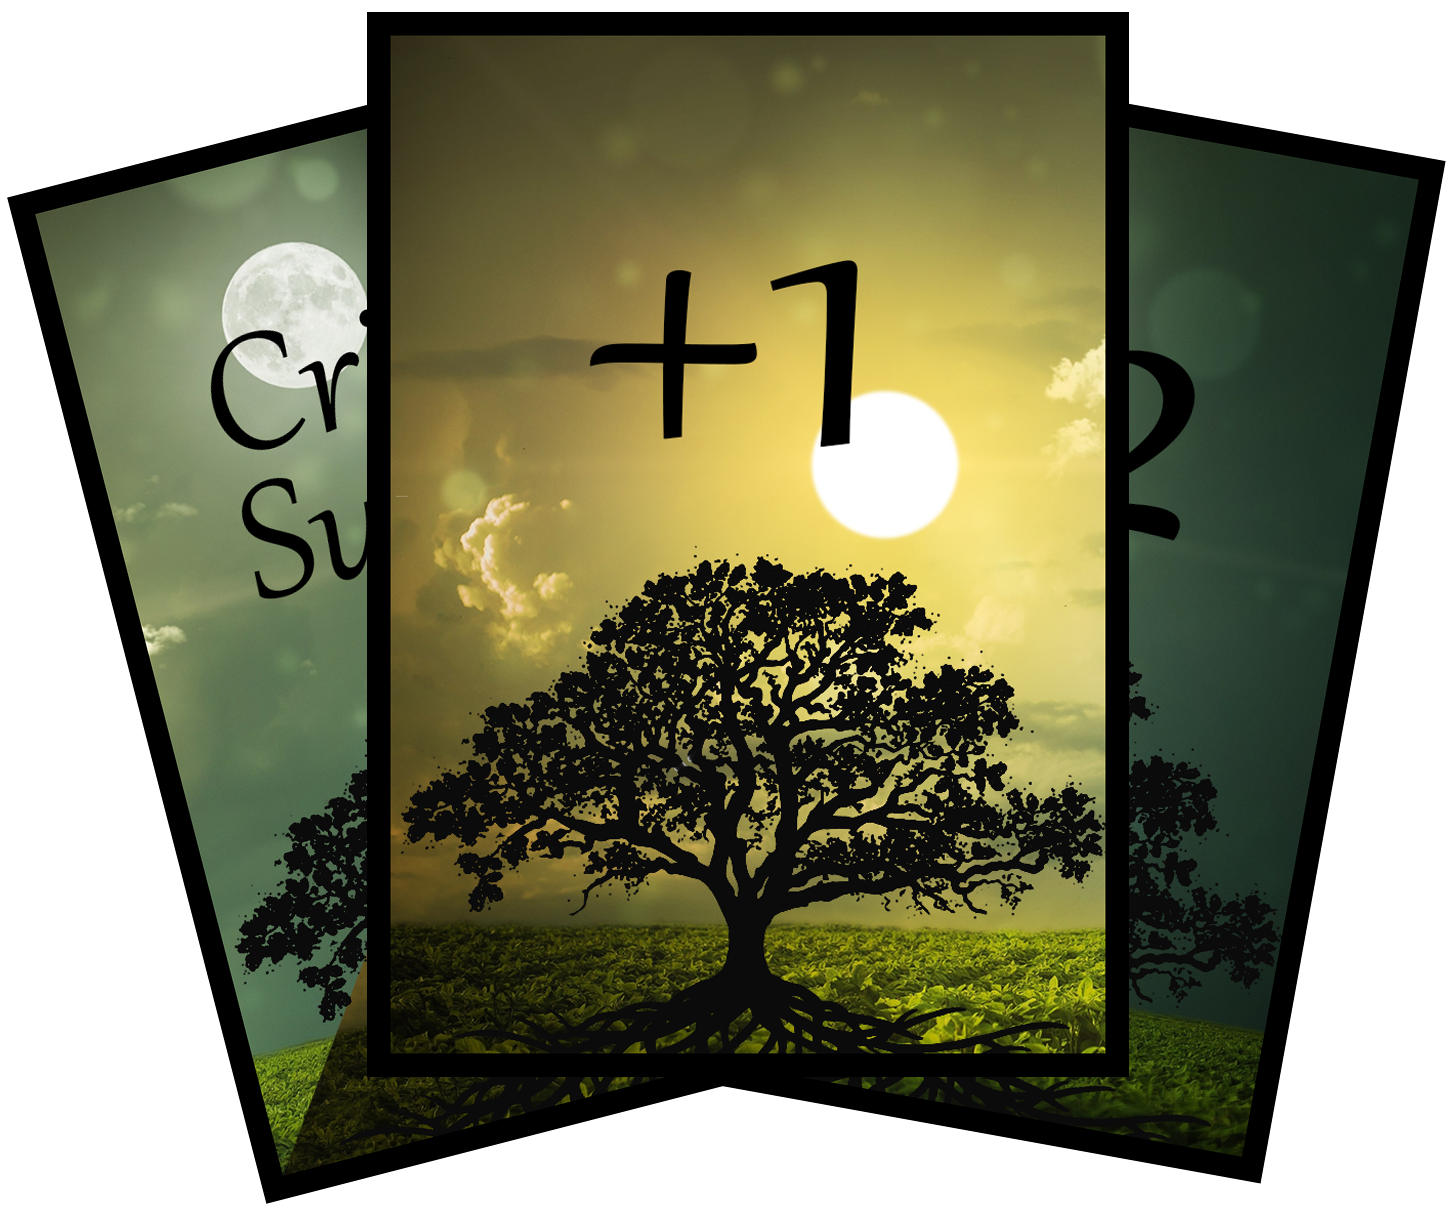
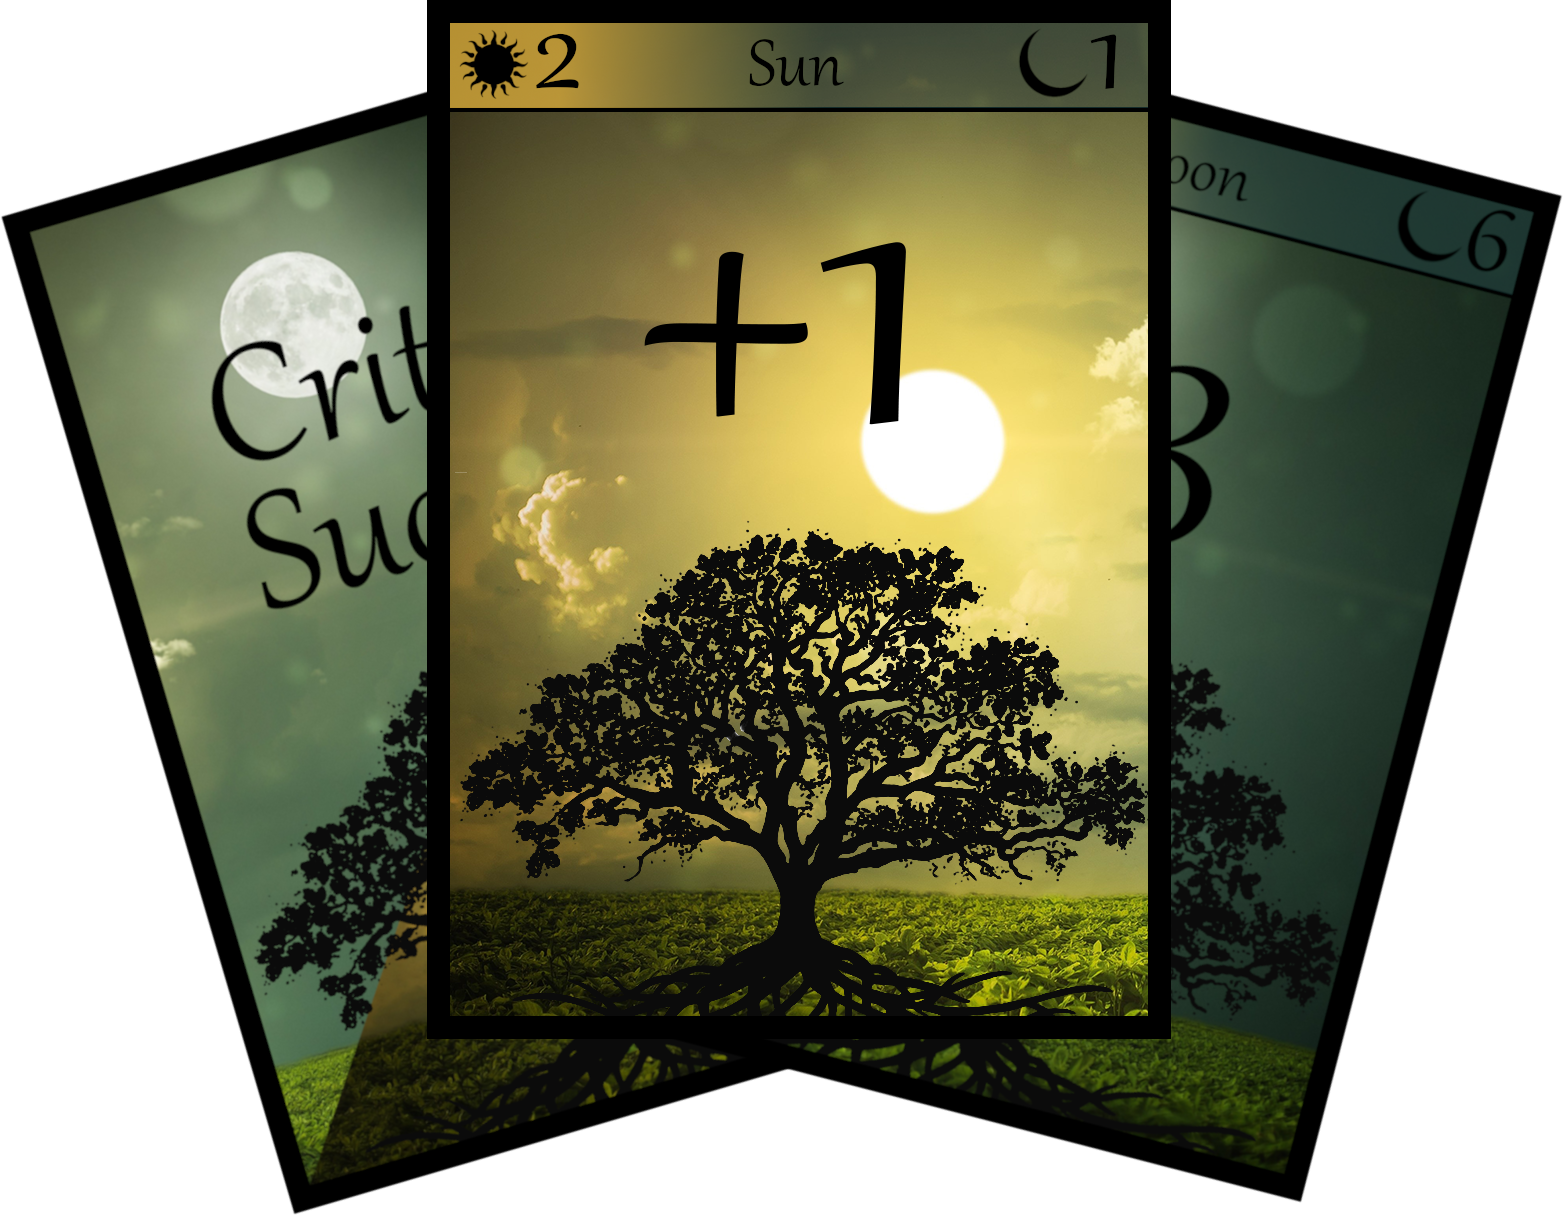
Updated Rules

Changed region(s): [[0.0, 0.0, 1.0, 1.0], [0.3716, 0.214, 0.5265, 0.3058], [0.4336, 0.3364, 0.4955, 0.3669]]

diff --git a/Game/Rules.html b/Game/Rules.html
@@ -38,15 +38,15 @@
             <div class="sub-block">
                 <div id="text-block">
                     <p>
-                        Realms Of Etharia is a turn based card roleplaying game, the game is sort of a mix between DnD
+                        Nychthemeron is a turn based card roleplaying game, the game is sort of a mix between DnD
                         and Magic the Gathering. The game does not have any dice making it less luck based while still
-                        retaining some random elements, a calculable randomness so to speak. The way this is that most
-                        random elements come in the form of a deck called Action Cards, these cards determine your
-                        overall damage value as well as your success rate, much like a dice does in DnD but since the
+                        retaining some random elements, a calculable randomness so to speak. The way this work is that most
+                        random elements come in the form of a deck called Action Cards. These cards determine your
+                        overall damage value as well as your success rate in checks, much like a dice does in DnD but since the
                         deck has a limited amount of cards you can keep track on how many good or bad cards there are
                         left in the deck.
-                        The game will feature a lot of customizability both by multi classing, adding removing Action Cards
-                        in your deck as well as the choice of races.
+                        The game will feature a lot of customizability both by multi classing, adding/removing Action Cards
+                        in your deck as well as various different races with unique abilities.
                     </p>
                 </div>
 
@@ -95,17 +95,75 @@
                                 </p>
                                 </p>
                             </div>
-                            <h4 class="block-header">Active Cards</h4>
+                            <div class="sub-section" id="sub-section-border">
+                                <div id="flex-section">
+                                    <div>
+                                        <img src="../Art/Rules/CardLayout.png" width="400" height="561">>
+                                    </div>
+                                    <div>
+                                        <h4 class="block-header">Layout</h4>
+                                        <div style="text-align: left;">
+                                            <div id="text-block" style="padding: 3px;">
+                                                <p style="margin: 2px;">
+                                                   <b>1.</b> Title of the skill/ability
+                                                </p>
+                                            </div>
+                                            <div id="text-block" style="padding: 3px;">
+                                                <p style="margin: 2px;">
+                                                    <b>2.</b> The card type, this often determines what action is required to use the skill/ability. The different types are: <strong>Standard</strong>, <strong>Movement</strong>, <strong>Reaction</strong>, <strong>Out-of-combat</strong>, <strong>Passive</strong> and <strong>Condition</strong>.
+                                                </p>
+                                            </div>
+                                            <div id="text-block" style="padding: 3px;">
+                                                <p style="margin: 2px;">
+                                                    <b>3.</b> Determines the face of the card, it is either Sun or Moon.
+                                            </div>
+                                            <div id="text-block" style="padding: 3px;">
+                                                <p style="margin: 2px;">
+                                                    <b>4.</b> The Spirit cost of the card, this cost can be 0.
+                                            </div>
+                                            <div id="text-block" style="padding: 3px;">
+                                                <p style="margin: 2px;">
+                                                    <b>5.</b> The ruletext of the card, this explain what the card does.
+                                            </div>
+                                            <div id="text-block" style="padding: 3px;">
+                                                <p style="margin: 2px;">
+                                                    <b>6.</b> The type of attack and range modifier. <br>If the modifier is + or - the total value is the base range of the respective weapon equipped +/- the modifier value.<br>
+                                                    If the modifier is neither + or -, the range is set at the number indicated regardless of the base range of the weapon.
+                                            </div>
+                                            <div id="text-block" style="padding: 3px;">
+                                                <p style="margin: 2px;">
+                                                    <b>7.</b> Requirements, this condition must be forfilled to use the card.
+                                            </div>
+                                            <div id="text-block" style="padding: 3px;">
+                                                <p style="margin: 2px;">
+                                                    <b>8.</b> The name of the class the card belongs to.
+                                            </div>
+                                            <div id="text-block" style="padding: 3px;">
+                                                <p style="margin: 2px;">
+                                                    <b>9.</b> The name of the sub-class the card belongs to and the tier of the card.
+                                            </div>
+                                        </div>
+                                        
+        
+                                    </div>
+
+                                </div>
+
+                                
+                                <h4 class="block-header">Active Cards</h4>
                             <div id="text-block">
                                 <p>
                                     Active cards are the side of the card that is currently face up.
                                     Casting a spell does not make the other side of the card 'Active' until after the
-                                    effect of the casted spell has concluded and the card has been flipped over
+                                    inital effect of the casted spell has been concluded and the card has been flipped over
                                     to the other
                                     side (This does not include additional after-effects such as conditions, lasting
                                     buffs and debuffs).
                                 </p>
                             </div>
+                            </div>
+                            
+                            
                             <h4 class="block-header">Initative</h4>
                             <div id="text-block">
                                 <p id="text-block">
@@ -232,8 +290,16 @@
                                 <p>
                                     Whenever a player makes an ability check, he or she draws 3 cards from the
                                     ActionCards
-                                    deck, each card is either a Sun or a Moon, you add the numbers together but depending on the current <b>Day Time</b> the corresponding card has its value doubbled.
+                                    deck, each card is either a Sun or a Moon, you add the numbers together but depending on the current <b>Day Time</b> the corresponding card has its value doubled.
                                     On the top of the card you can see the value it has when calculating for checks.
+                                </p>
+                            </div>
+                            <h4 class="block-header">Difficulty Rating</h4>
+                            <div id="text-block">
+                                <p>
+                                    The DM determines the difficulty of a certain challenge and the player need to draw
+                                    cards adding their value up to or higher than that difficulty.
+                                    A Player also have their own Difficulty Rating that normally starts at 6, this is what enemies need to beat in order to avoid your inflictions. This can be increased by Talents.
                                 </p>
                             </div>
                             <h4 class="block-header">Attributes & Talents</h4>
@@ -260,14 +326,7 @@
                                     after a long rest.
                                 </p>
                             </div>
-                            <h4 class="block-header">Difficulty Rating</h4>
-                            <div id="text-block">
-                                <p>
-                                    The DM determines the difficulty of a certain challenge and the player need to draw
-                                    cards adding their value up to or higher than that difficulty.
-                                    A Player also have their own Difficulty Rating that normally starts at 6, this is what enemies need to beat in order to avoid your inflictions. This can be increased by Talents.
-                                </p>
-                            </div>
+
                         </div>
                         <div>
                             <img src="../Art/ActionCards.png" width="363" height="302">
